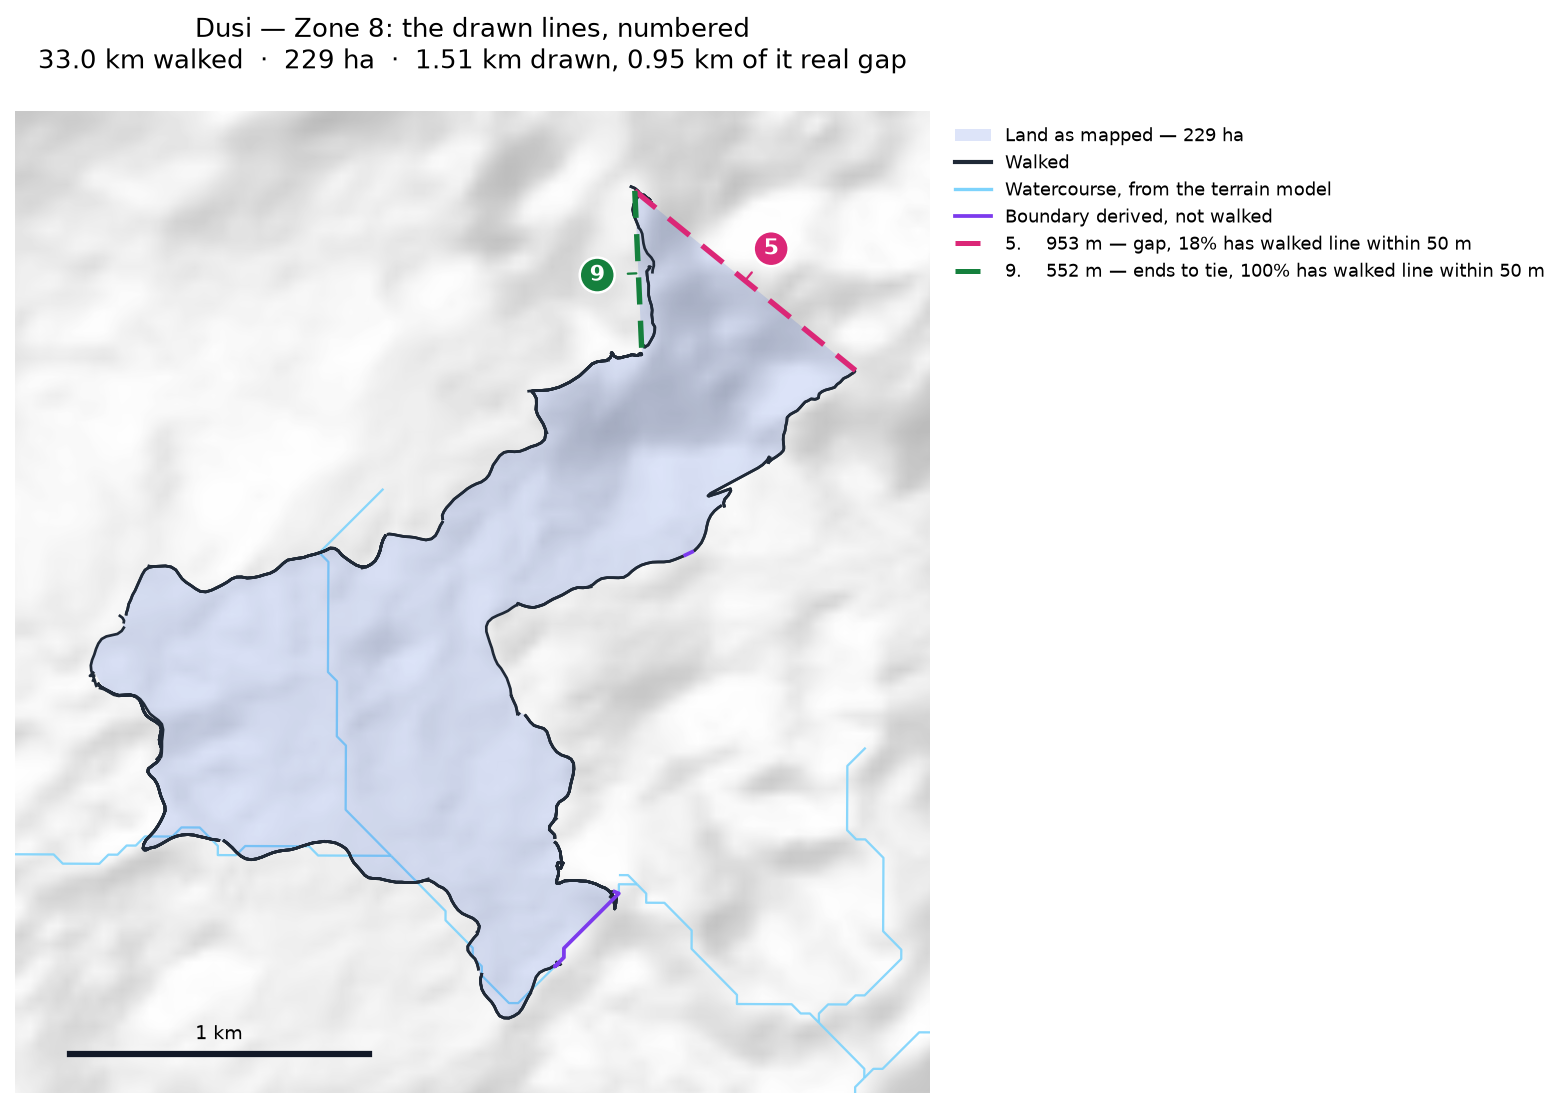
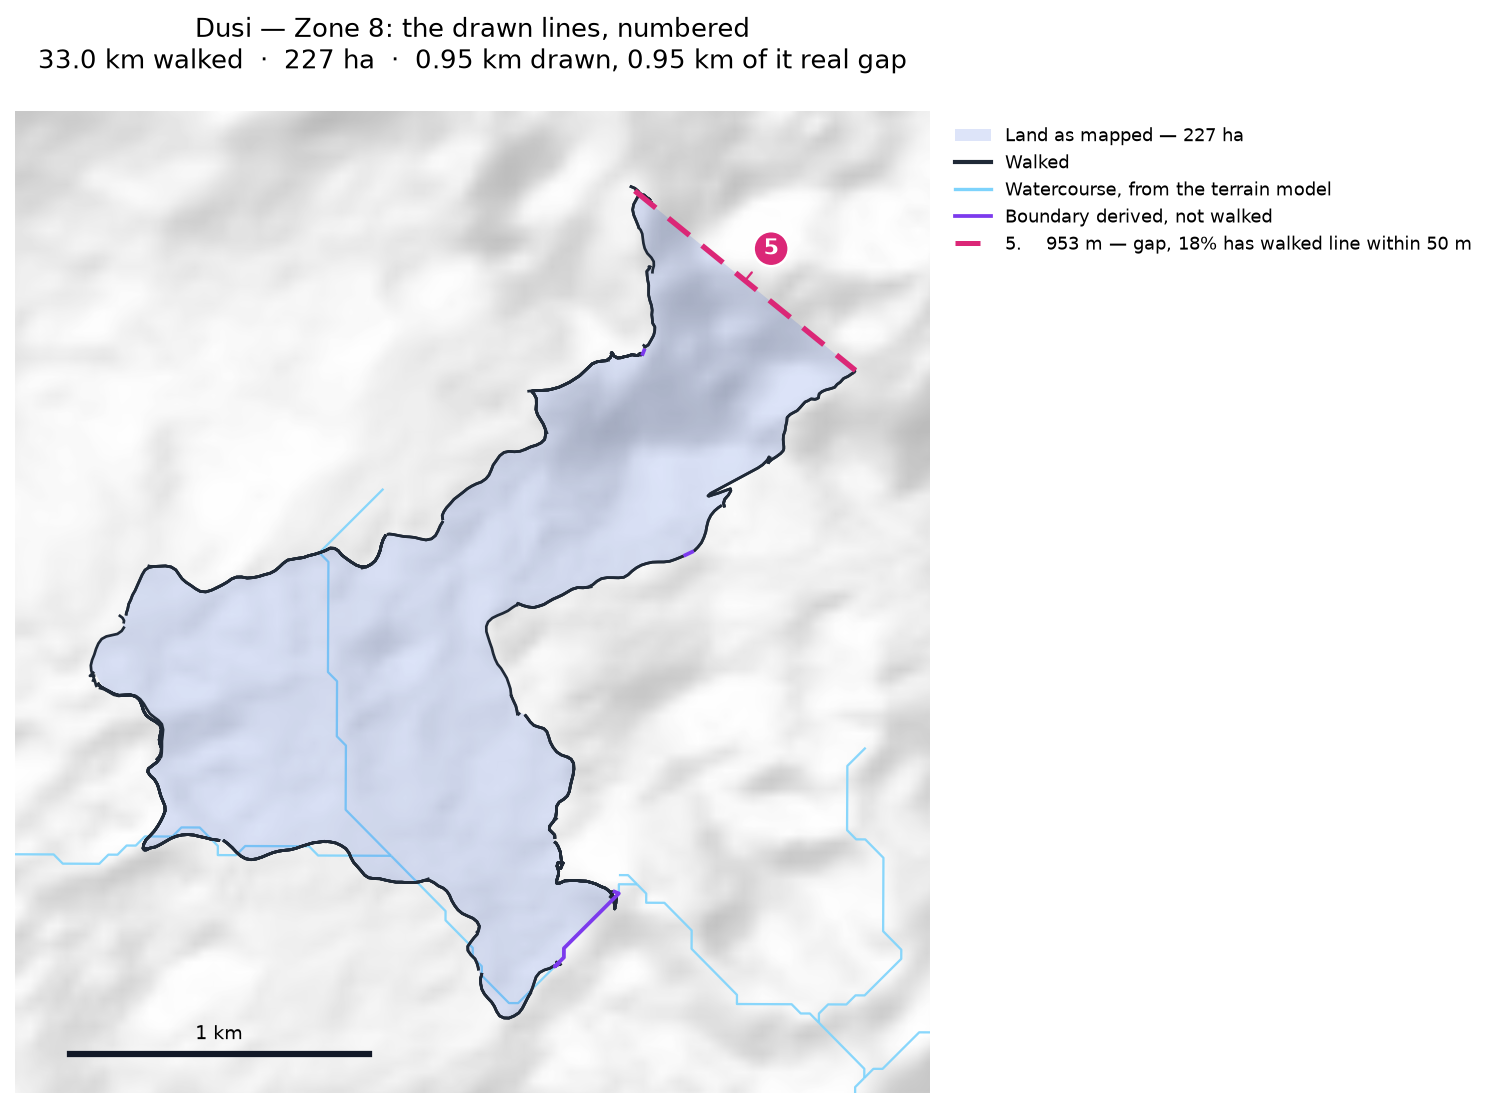
Dusi chord 9: adopt the 25.5 m join; close a survey whose only opening is a pinned gap
Chord 9 was an artefact of half a metre. 764 m of walked northern boundary
— 'Gigulhun border with Karira' and 'Geigulhull broader with karira,.' —
hung off one node because its far end stopped 25.5 m from the next piece,
just outside the 25 m tolerance. The spur pruner read the chain as a dead
end and discarded it, and the closing step drew a 552 m chord across the
ground it covered.

Joining the 25.5 m leaves Dusi as one piece of 10.70 km with no free ends:
complete, its only opening the agreed 953 m gap. The closing step answered
that with a 2,741 m line across the clan.

survey_polygon now asks, geometrically, whether the walk closes once the
pinned gaps are in. If it does, nothing further is drawn. Asked from the
graph instead this would have been wrong: a single piece with no free ends
need not enclose anything — a line walked out and back is a cycle in the
graph and a ring around nothing, which is exactly Gumuri, and the graph
question lost all 81 ha of it. The test only runs where a survey has a
pinned gap, so Dusi is the only survey it can reach.

Dusi: 227 ha, 33.0 km walked, 0.95 km drawn and all of it the one real
gap. Dataset total 33,437 ha with no other survey moved; Gumuri 81 ha.

Claude-Session: https://claude.ai/code/session_01K6X75MkuiGQ9rmgDZx45vk

diff --git a/scripts/polygons.py b/scripts/polygons.py
@@ -139,6 +139,33 @@ def survey_polygon(parts: list, tolerance: float, min_enclosure: float,
         edge["live"] = True
     live = [e for e in edges if e["live"]] or edges
 
+    # Does the walk close once the pinned gaps are in? A survey whose only
+    # remaining opening is a gap already agreed needs nothing drawn: the
+    # ring is complete and anything further is a line across a finished
+    # boundary. Dusi, tied at a 25.5 m break, is one piece of 10.70 km with
+    # no free ends, and was being handed a 2,741 m chord across the clan.
+    #
+    # Asked geometrically rather than from the graph, because a single
+    # piece with no free ends need not enclose anything — a line walked out
+    # and back is a cycle in the graph and a ring around nothing. Gumuri is
+    # exactly that, and the question put to the graph alone lost all 81 ha
+    # of it.
+    if pinned:
+        with_pinned = _enclosed(snapped + list(pinned))
+        probe = closure._chains(live + pinned_edges, positions)
+        probe_bridges, _ = _bridges(probe)
+        probed = (_enclosed(snapped + list(pinned) + probe_bridges)
+                  if probe_bridges else with_pinned)
+        if closure.closes_on_its_own(with_pinned, probed, min_enclosure):
+            return {"geometry": with_pinned, "basis": "inferred",
+                    "gap_m": sum(g.length for g in pinned),
+                    "gap_pct": (sum(g.length for g in pinned) / total * 100
+                                if total else None),
+                    "walked_km": walked_m / 1000,
+                    "derived_km": (total - walked_m) / 1000,
+                    "area_ha": with_pinned.area / 1e4,
+                    "bridges": list(pinned)}
+
     chains = closure._chains(live + pinned_edges, positions)
     bridges, gap = _bridges(chains)
     bridges = list(pinned) + bridges
